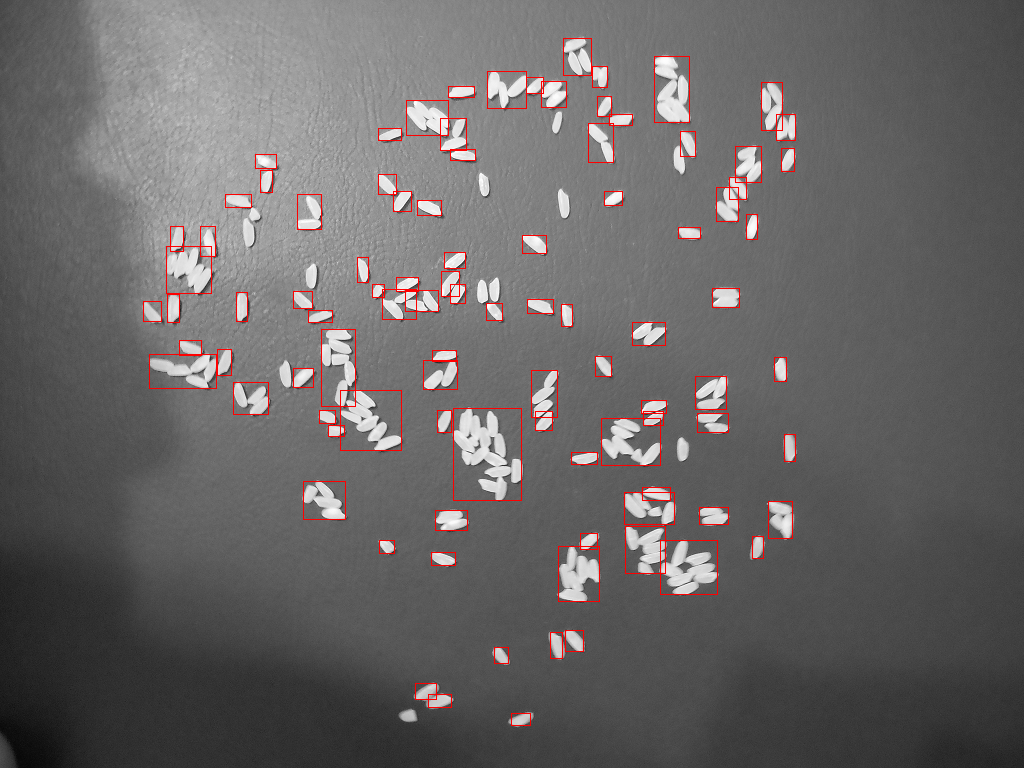
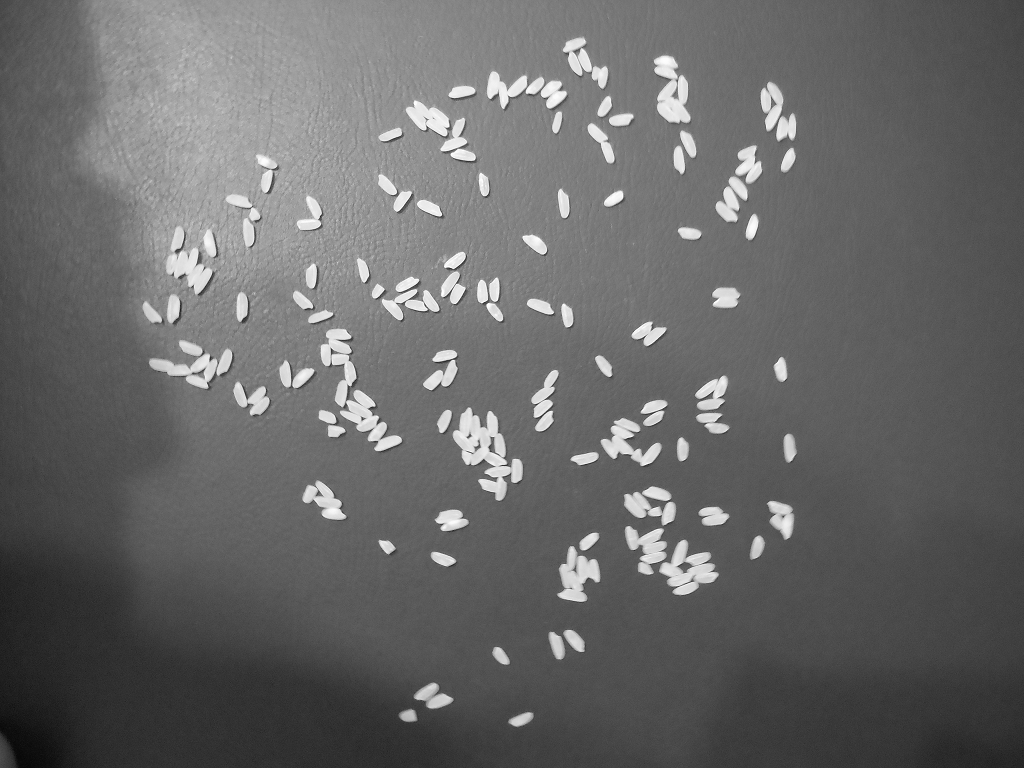
quase perfeitinho

diff --git a/arroz_V2/main.py b/arroz_V2/main.py
@@ -12,16 +12,16 @@ import cv2
 
 #===============================================================================
 
-INPUT_IMAGE =  '60.bmp'
+INPUT_IMAGE =  '205.bmp'
 #INPUT_IMAGE = 'documento-3mp.bmp'
 
 # TODO: ajuste estes parâmetros!
 NEGATIVO = False
 THRESHOLD = 0.7
 THRESHOLD2 = 0.3
-ALTURA_MIN = 10
-LARGURA_MIN = 10
-N_PIXELS_MIN = 100
+ALTURA_MIN = 1
+LARGURA_MIN = 1
+N_PIXELS_MIN = 1
 
 #===============================================================================
 
@@ -95,6 +95,7 @@ respectivamente: topo, esquerda, baixo e direita.'''
                     componente = {'label' : label, "n_pixel" :n_pixel}
                     componente.update(retangulo)
                     componentes.append(componente)
+                    #print(n_pixel)
                    
                 label +=1
 
@@ -103,6 +104,35 @@ respectivamente: topo, esquerda, baixo e direita.'''
     return componentes
 #----------------------------------------------------------------------------------------
 
+def normaliza_local(img):
+    #TODO: determinar o tamanho do kernel ser proximo do tamanho de um arroz
+    kernel = np.ones((101,101), dtype=np.uint8)
+    #substitui o pixel pelo menor pixel encontrado no kernel
+    mini = cv2.erode(img,kernel)
+    sigma = 10
+    mini= cv2.GaussianBlur(mini, (0,0), sigma)
+    #Substitui o pixel pelo maior pixel encontrado no kerel
+    maxi = cv2.dilate(img,kernel)
+    maxi= cv2.GaussianBlur(maxi, (0,0), sigma)
+
+    img2 = np.copy(img)
+
+    img2 = (img -mini)/(maxi-mini)
+    return img2
+
+#----------------------------
+
+#-------------------------------------------------------------------------------------------
+
+def magnitude(img):
+    dx = cv2.Sobel(img,cv2.CV_32F,1,0)
+    dy = cv2.Sobel(img,cv2.CV_32F,0,1)
+    mag = cv2.magnitude(dx,dy)
+    #minimo = np.min(mag)
+    #maximo = np.max(mag)
+    #print(minimo,maximo)
+    mag =cv2.normalize(mag,None,alpha=0,beta=1,norm_type=cv2.NORM_MINMAX)
+    return mag
 #========================================================================================
 def main ():
 
@@ -112,9 +142,6 @@ def main ():
         print ('Erro abrindo a imagem.\n')
         sys.exit ()
 
-    # É uma boa prática manter o shape com 3 valores, independente da imagem ser
-    # colorida ou não. Também já convertemos para float32.
-    #img = img.reshape ((img.shape [0], img.shape [1], 1))
     img = img.astype (np.float32) / 255
     
     # Mantém uma cópia colorida para desenhar a saída.
@@ -125,44 +152,99 @@ def main ():
         img = 1 - img
 
     rows,cols = np.shape(img)
-    resized = cv2.resize(img, (cols*30, rows*30), 0, 0, interpolation = cv2.INTER_NEAREST)
-    resized = cv2.resize(resized, (cols, rows), 0, 0, interpolation = cv2.INTER_LINEAR)
-    dx = cv2.Sobel(resized,cv2.CV_32F,1,0)
-    dy = cv2.Sobel(resized,cv2.CV_32F,0,1)
-    mag = cv2.magnitude(dx,dy)
-    #minimo = np.min(mag)
-    #maximo = np.max(mag)
-    #print(minimo,maximo)
-    mag =cv2.normalize(mag,None,alpha=0,beta=1,norm_type=cv2.NORM_MINMAX)
-    mag = binariza(mag,THRESHOLD2)
-    mag = cv2.dilate(mag,(3,3),iterations=1)
+    
+    img= cv2.normalize(img,None,alpha=0,beta=1,norm_type=cv2.NORM_MINMAX)
+    
+
+    #expalhar o brilho da imagem
+    img2 = normaliza_local(img)
+
+    #img3 = binariza (img2, THRESHOLD)
+    kernel = 201
+    img = (img * 255).astype(np.uint8)  # Normalize para 8 bits
+    img3 = cv2.adaptiveThreshold(img, 255, cv2.ADAPTIVE_THRESH_MEAN_C, cv2.THRESH_BINARY, kernel, -30)
+    img3 = img3.astype (np.float32) / 255
+
+    #Limpa ruido
+    kernel = np.ones((5,5), dtype=np.uint8)
+    
+    #img3 = cv2.medianBlur(img3,9)
+
+    img3 = cv2.erode(img3,kernel)
+    img3 = cv2.dilate(img3,(kernel))
+    
+    cv2.imshow ('ORIGINAL', img/255)
+    cv2.imwrite ('ORIGINAL.png', img)
+    cv2.imshow ('01 - normalizado local', img2)
+    cv2.imwrite ('01 - normalizado local.png', img2*255)
+    cv2.imshow ('03 - binzarizada', img3)
+    cv2.imwrite ('03 - binzarizada.png', img3*255)
 
     
-    img2 = img - mag
-    
-    img2 = binariza (img, THRESHOLD)
-    
-    #cv2.imshow ('01 - binarizada', mag)
-    #cv2.imwrite ('01 - binarizada.png', mag*255)
-    cv2.imshow ('ORIGINAL', img)
-    cv2.imwrite ('ORIGINAL.png', img*255)
-    cv2.imshow ('02 - binarizada2', img2)
-    cv2.imwrite ('02 - binarizada2.png', img2*255)
 
     start_time = timeit.default_timer ()
-    componentes = rotula (img2, LARGURA_MIN, ALTURA_MIN, N_PIXELS_MIN)
+    componentes = rotula (img3, LARGURA_MIN, ALTURA_MIN, N_PIXELS_MIN)
     n_componentes = len (componentes)
     print ('Tempo: %f' % (timeit.default_timer () - start_time))
     print ('%d componentes detectados.' % n_componentes)
 
     # Mostra os objetos encontrados.
-    for c in componentes:
-        cv2.rectangle (img_out, (c ['L'], c ['T']), (c ['R'], c ['B']), (0,0,1))
+    tam = len(componentes)
+    pixel =np.zeros(tam)
+    for c in range(0,tam):
+        pixel[c] = componentes[c]["n_pixel"]
+    desvio = 100000
+    desvio = np.std(pixel)
 
+    
+    pixel = np.sort(pixel)
+    mediana =0
+
+    pixel_buffer = pixel.copy()
+    #20
+    while desvio > 20:
+
+       
+        mediana = np.median(pixel_buffer)
+        distancias = np.abs(pixel_buffer - mediana)
+        
+        # Remover o valor mais distante da mediana
+        indice_remover = np.argmax(distancias)
+        pixel_buffer = np.delete(pixel_buffer, indice_remover)
+        desvio = np.std(pixel_buffer)
+        #print("desvio",desvio)
+
+    print("desvio padrao",desvio)
+    print(pixel_buffer)
+    
+    
+    x=0
+
+
+    max_arroz = pixel_buffer[-1]/mediana
+    min_arroz = pixel[0]/mediana
+
+    print("max arroz",max_arroz)
+    print("min arroz",min_arroz)
+
+   # print("Parametros",min_arroz,1/min_arroz)
+
+    #Estou pegando arroz grande e somando +1. ex 340/240
+    for i in range (int(tam/2),tam):
+        if(pixel[i]/mediana > max_arroz):
+            print(pixel[i]/mediana, x,pixel[i]/mediana - int(pixel[i]/mediana))
+            #print("pixel[",i,"] = ",pixel[i] )
+
+            x += int(pixel[i]/mediana) -1
+            if(pixel[i]/mediana - int(pixel[i]/mediana)>=min_arroz):
+                x+=1
+    
+    print(x+tam)
     cv2.imshow ('02 - out', img_out)
     cv2.imwrite ('02 - out.png', img_out*255)
-    cv2.waitKey ()
-    cv2.destroyAllWindows ()
+
+    #cv2.waitKey ()
+    #cv2.destroyAllWindows ()
 
 
 if __name__ == '__main__':
